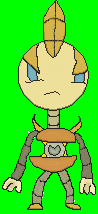
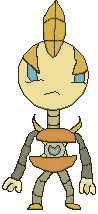
Fixed Alpha Channel Bugs, Added Platforms

diff --git a/zachGame.py b/zachGame.py
@@ -12,7 +12,7 @@ import pygame.freetype #load fonts
 
 def stats(score):
     #display text,1,color(rgb)
-    text_score = myfont.render("Score: "+str(score), 1, (250,147,248))
+    text_score = myfont.render("Score: "+str(score), 1, (0,5,151))
     screen.blit(text_score, (4, 4))
 
 class Player(pygame.sprite.Sprite):
@@ -130,35 +130,40 @@ class Platform(pygame.sprite.Sprite):
    def level1():
        #create level 1
        platform_list = pygame.sprite.Group()
-       block = Platform(0, 680, 119, 62,os.path.join('images','ground_grass.png'))
+       #the grass
+       block = Platform(0, 680, 240, 62,os.path.join('images','ground_grass.png'))
        platform_list.add(block) #after each block
-       block = Platform(94, 680, 119, 62,os.path.join('images','ground_grass.png'))
+      # block = Platform(94, 680, 119, 62,os.path.join('images','ground_grass.png'))
+       #platform_list.add(block) #after each block
+       block = Platform(188, 680, 240, 62,os.path.join('images','ground_grass.png'))
        platform_list.add(block) #after each block
-       block = Platform(188, 680, 119, 62,os.path.join('images','ground_grass.png'))
+       #block = Platform(282, 680, 119, 62,os.path.join('images','ground_grass.png'))
+       #platform_list.add(block) #after each block
+       block = Platform(350, 680, 240, 62,os.path.join('images','ground_grass.png'))
        platform_list.add(block) #after each block
-       block = Platform(282, 680, 119, 62,os.path.join('images','ground_grass.png'))
+       #block = Platform(420, 680, 119, 62,os.path.join('images','ground_grass.png'))
        platform_list.add(block) #after each block
-       block = Platform(350, 680, 119, 62,os.path.join('images','ground_grass.png'))
+       #block = Platform(480, 680, 119, 62,os.path.join('images','ground_grass.png'))
        platform_list.add(block) #after each block
-       block = Platform(420, 680, 119, 62,os.path.join('images','ground_grass.png'))
+       block = Platform(540, 680, 240, 62,os.path.join('images','ground_grass.png'))
+       #platform_list.add(block) #after each block
+       #block = Platform(600, 680, 119, 62,os.path.join('images','ground_grass.png'))
        platform_list.add(block) #after each block
-       block = Platform(480, 680, 119, 62,os.path.join('images','ground_grass.png'))
+       block = Platform(660, 680, 240, 62,os.path.join('images','ground_grass.png'))
+       #platform_list.add(block) #after each block
+       #block = Platform(720, 680, 119, 62,os.path.join('images','ground_grass.png'))
        platform_list.add(block) #after each block
-       block = Platform(540, 680, 119, 62,os.path.join('images','ground_grass.png'))
+       block = Platform(780, 680, 120, 62,os.path.join('images','ground_grass.png'))
        platform_list.add(block) #after each block
-       block = Platform(600, 680, 119, 62,os.path.join('images','ground_grass.png'))
+       #block = Platform(840, 680, 119, 62,os.path.join('images','ground_grass.png'))
+       #platform_list.add(block) #after each block
+       block = Platform(900, 680, 120, 62,os.path.join('images','ground_grass_rightslope.png'))
        platform_list.add(block) #after each block
-       block = Platform(660, 680, 119, 62,os.path.join('images','ground_grass.png'))
+       #the platforms
+       block = Platform(1130, 530, 152, 300,os.path.join('images','platform_os_1.png'))
        platform_list.add(block) #after each block
-       block = Platform(720, 680, 119, 62,os.path.join('images','ground_grass.png'))
+       block = Platform(1350, 400, 152, 400,os.path.join('images','platform_os_1.png'))
        platform_list.add(block) #after each block
-       block = Platform(780, 680, 119, 62,os.path.join('images','ground_grass.png'))
-       platform_list.add(block) #after each block
-       block = Platform(840, 680, 119, 62,os.path.join('images','ground_grass.png'))
-       platform_list.add(block) #after each block
-       block = Platform(900, 680, 119, 62,os.path.join('images','ground_grass.png'))
-       platform_list.add(block) #after each block
-       
 
        return platform_list #at end of function level1
 
@@ -208,7 +213,7 @@ def crate_list():
 #code runs once
 screenX = 960 #screen width
 screenY = 720 #screen height
-alpha = (0,255,0)
+alpha = (0,0,0)
 black = (1,1,1)
 white = (255, 255, 255)
 
